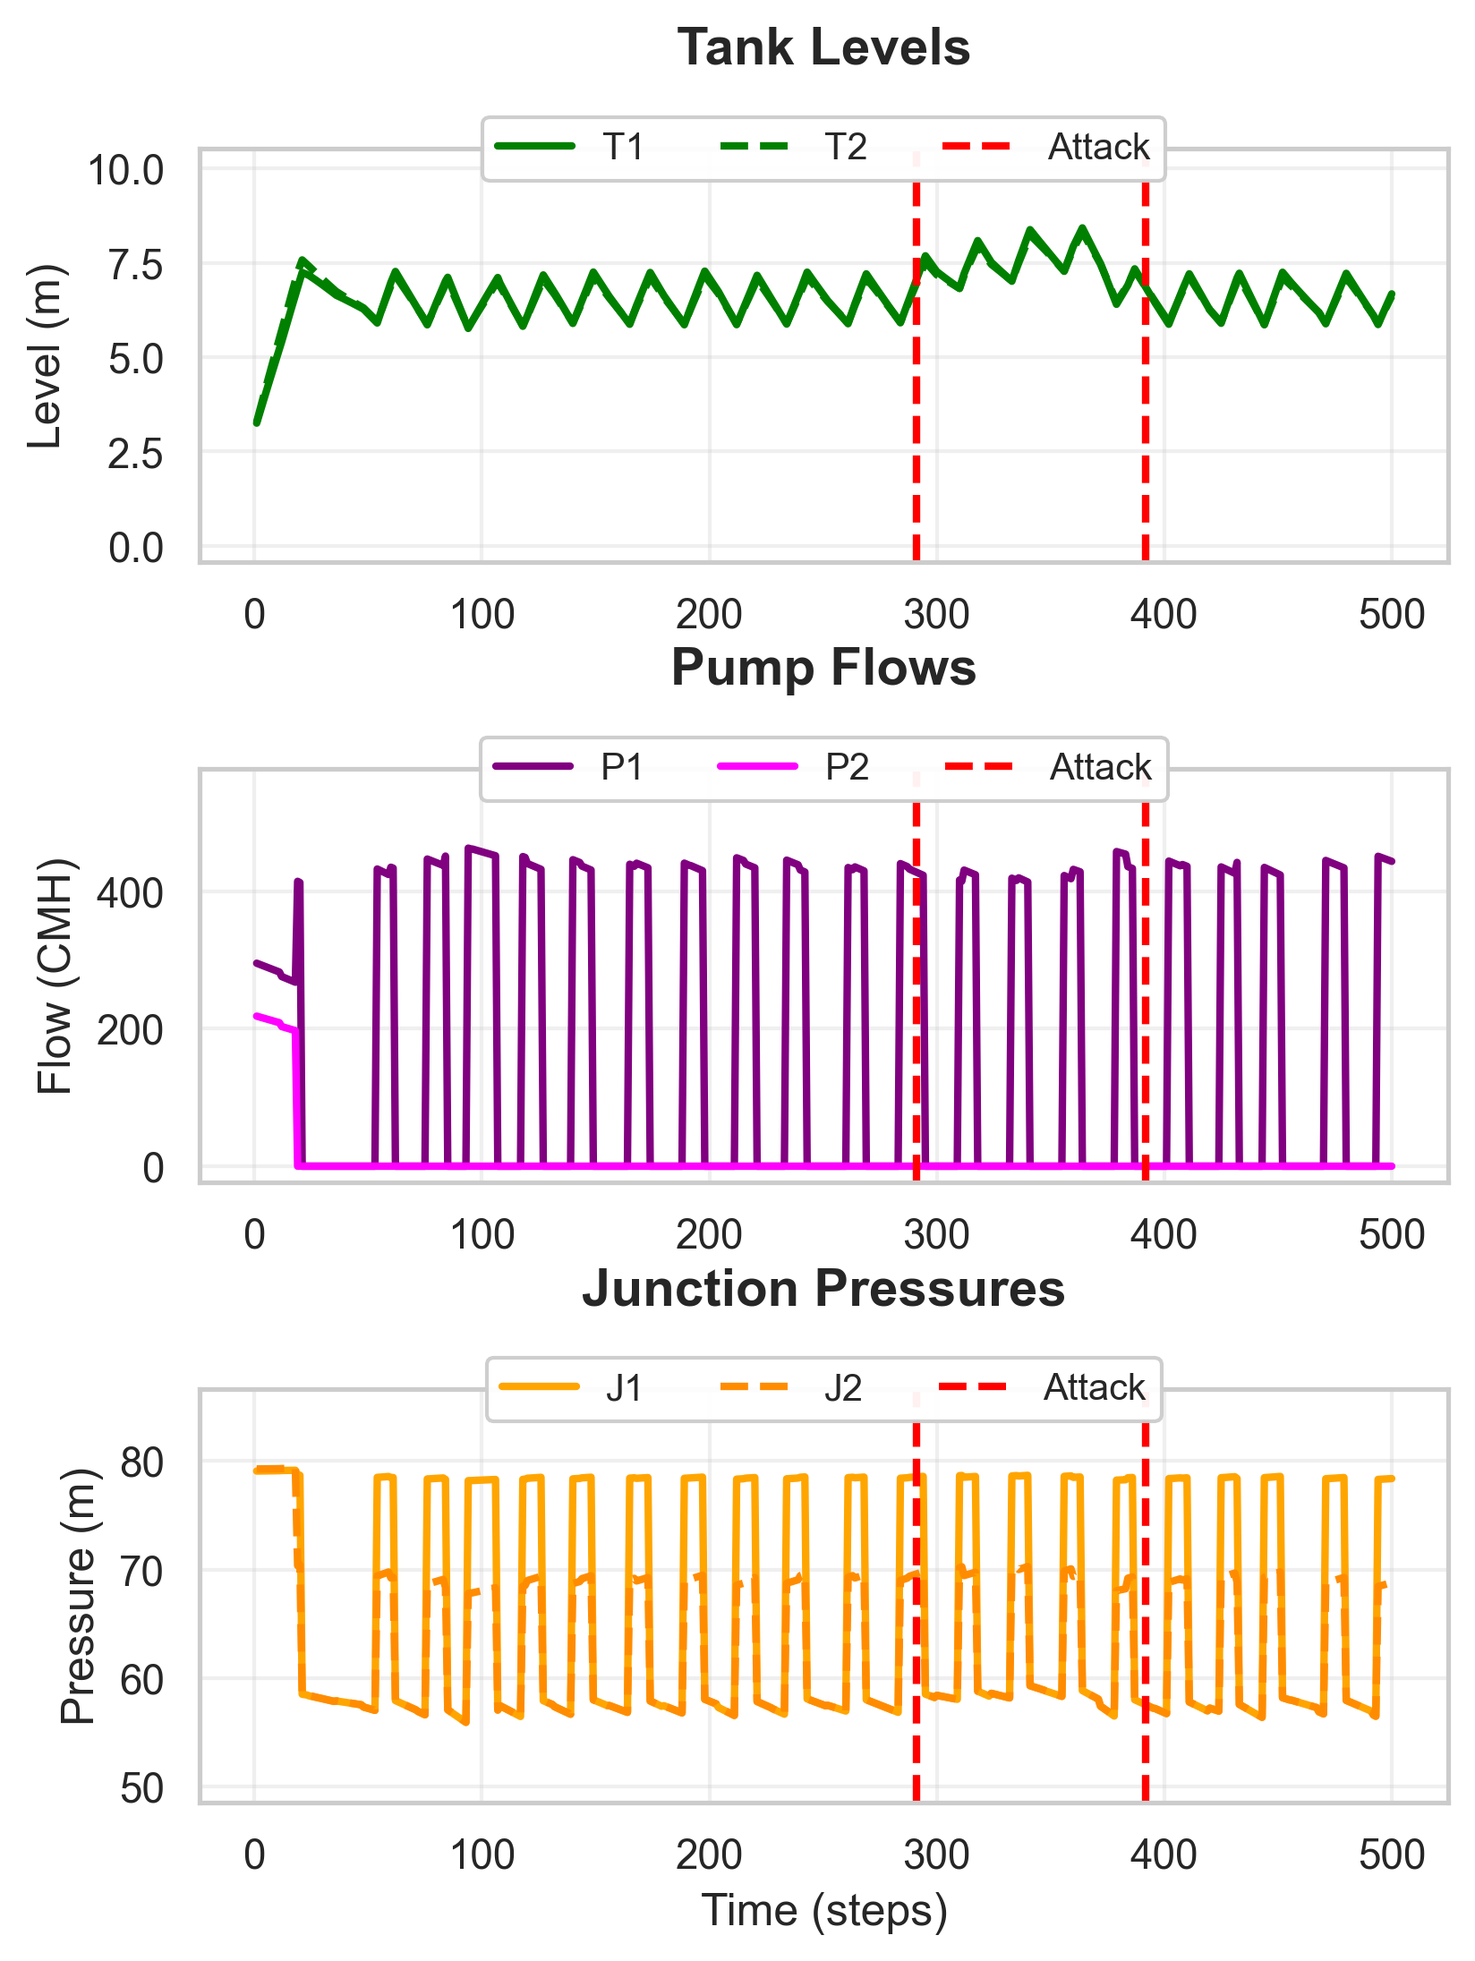
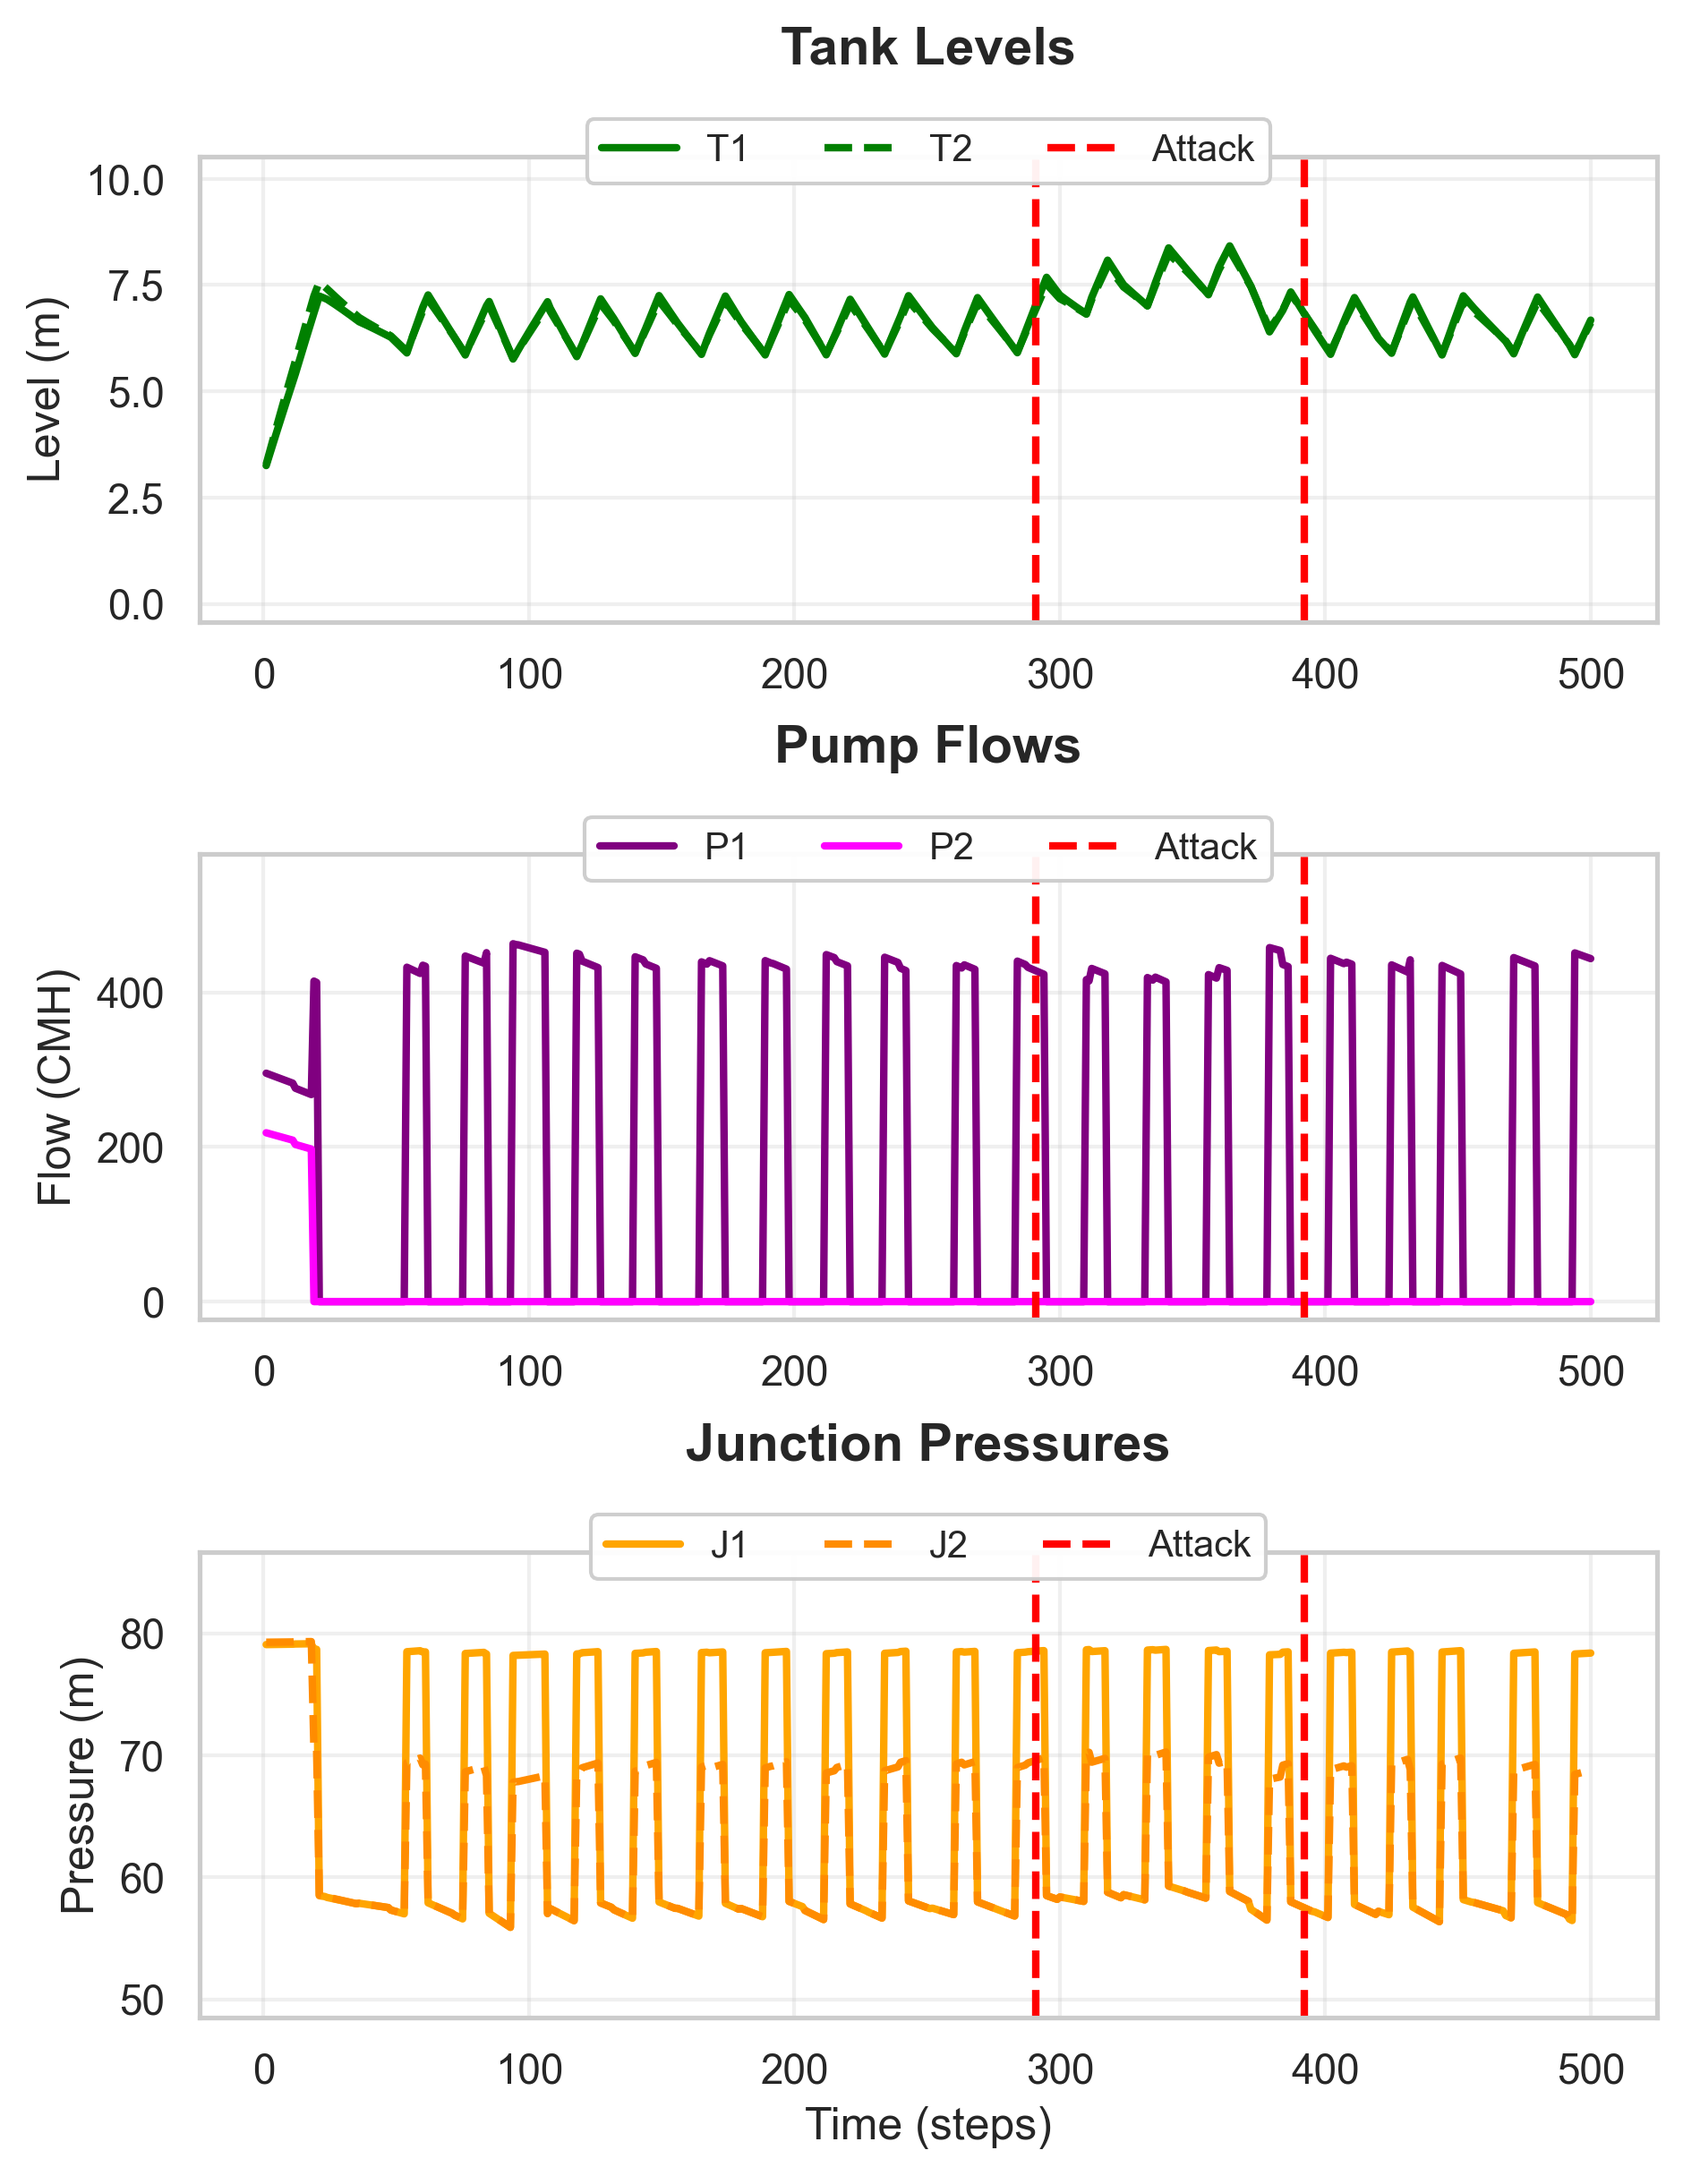
Reduce cyber row gap, increase physical plot sizes

diff --git a/aaaMyViz/run_visualization.py b/aaaMyViz/run_visualization.py
@@ -194,7 +194,7 @@ try:
             spine.set_linewidth(0.5)
             spine.set_color('#CCCCCC')
 
-    plt.subplots_adjust(top=0.85, hspace=0.5)
+    plt.subplots_adjust(top=0.88, hspace=0.35)
     plt.savefig('ScadaCaseNew/CyberLayer_PacketAnalysis.png', dpi=300, bbox_inches='tight')
     plt.close()
     print("   ✓ Saved: ScadaCaseNew/CyberLayer_PacketAnalysis.png")
@@ -219,7 +219,7 @@ try:
     attack_intervals = find_attack_intervals(ground_truth_df, 'plc2AttackerUnit')
     attack_start, attack_end = attack_intervals[0]
 
-    fig, axes = plt.subplots(3, 1, figsize=(6, 8), gridspec_kw={'height_ratios': [1, 1, 1]})
+    fig, axes = plt.subplots(3, 1, figsize=(7, 9), gridspec_kw={'height_ratios': [1, 1, 1]})
 
     # Tank Levels
     axes[0].plot(ground_truth_df['iteration'], ground_truth_df['T1_LEVEL'], label='T1', color='green', linewidth=2)
@@ -269,7 +269,7 @@ except Exception as e:
 print("\n[2/4] Generating DoS No Guard - SCADA View plot...")
 
 try:
-    fig2, axes2 = plt.subplots(3, 1, figsize=(6, 8), sharex=True)
+    fig2, axes2 = plt.subplots(3, 1, figsize=(7, 9), sharex=True)
 
     # Tank Levels
     axes2[0].plot(scada_df['iteration'], scada_df['T1'], label='T1', color='green', linewidth=2)
@@ -326,7 +326,7 @@ try:
     attack_intervals_guard = find_attack_intervals(ground_truth_guard_df, 'plc2AttackerUnit')
     attack_start_guard, attack_end_guard = attack_intervals_guard[0]
 
-    fig3, axes3 = plt.subplots(3, 1, figsize=(6, 8), gridspec_kw={'height_ratios': [1, 1, 1]})
+    fig3, axes3 = plt.subplots(3, 1, figsize=(7, 9), gridspec_kw={'height_ratios': [1, 1, 1]})
 
     # Tank Levels
     axes3[0].plot(ground_truth_guard_df['iteration'], ground_truth_guard_df['T1_LEVEL'], label='T1', color='green', linewidth=2)
@@ -376,7 +376,7 @@ except Exception as e:
 print("\n[4/4] Generating DoS WITH Guard - SCADA View plot...")
 
 try:
-    fig4, axes4 = plt.subplots(3, 1, figsize=(6, 8), sharex=True)
+    fig4, axes4 = plt.subplots(3, 1, figsize=(7, 9), sharex=True)
 
     # Tank Levels
     axes4[0].plot(scada_guard_df['iteration'], scada_guard_df['T1'], label='T1', color='green', linewidth=2)
